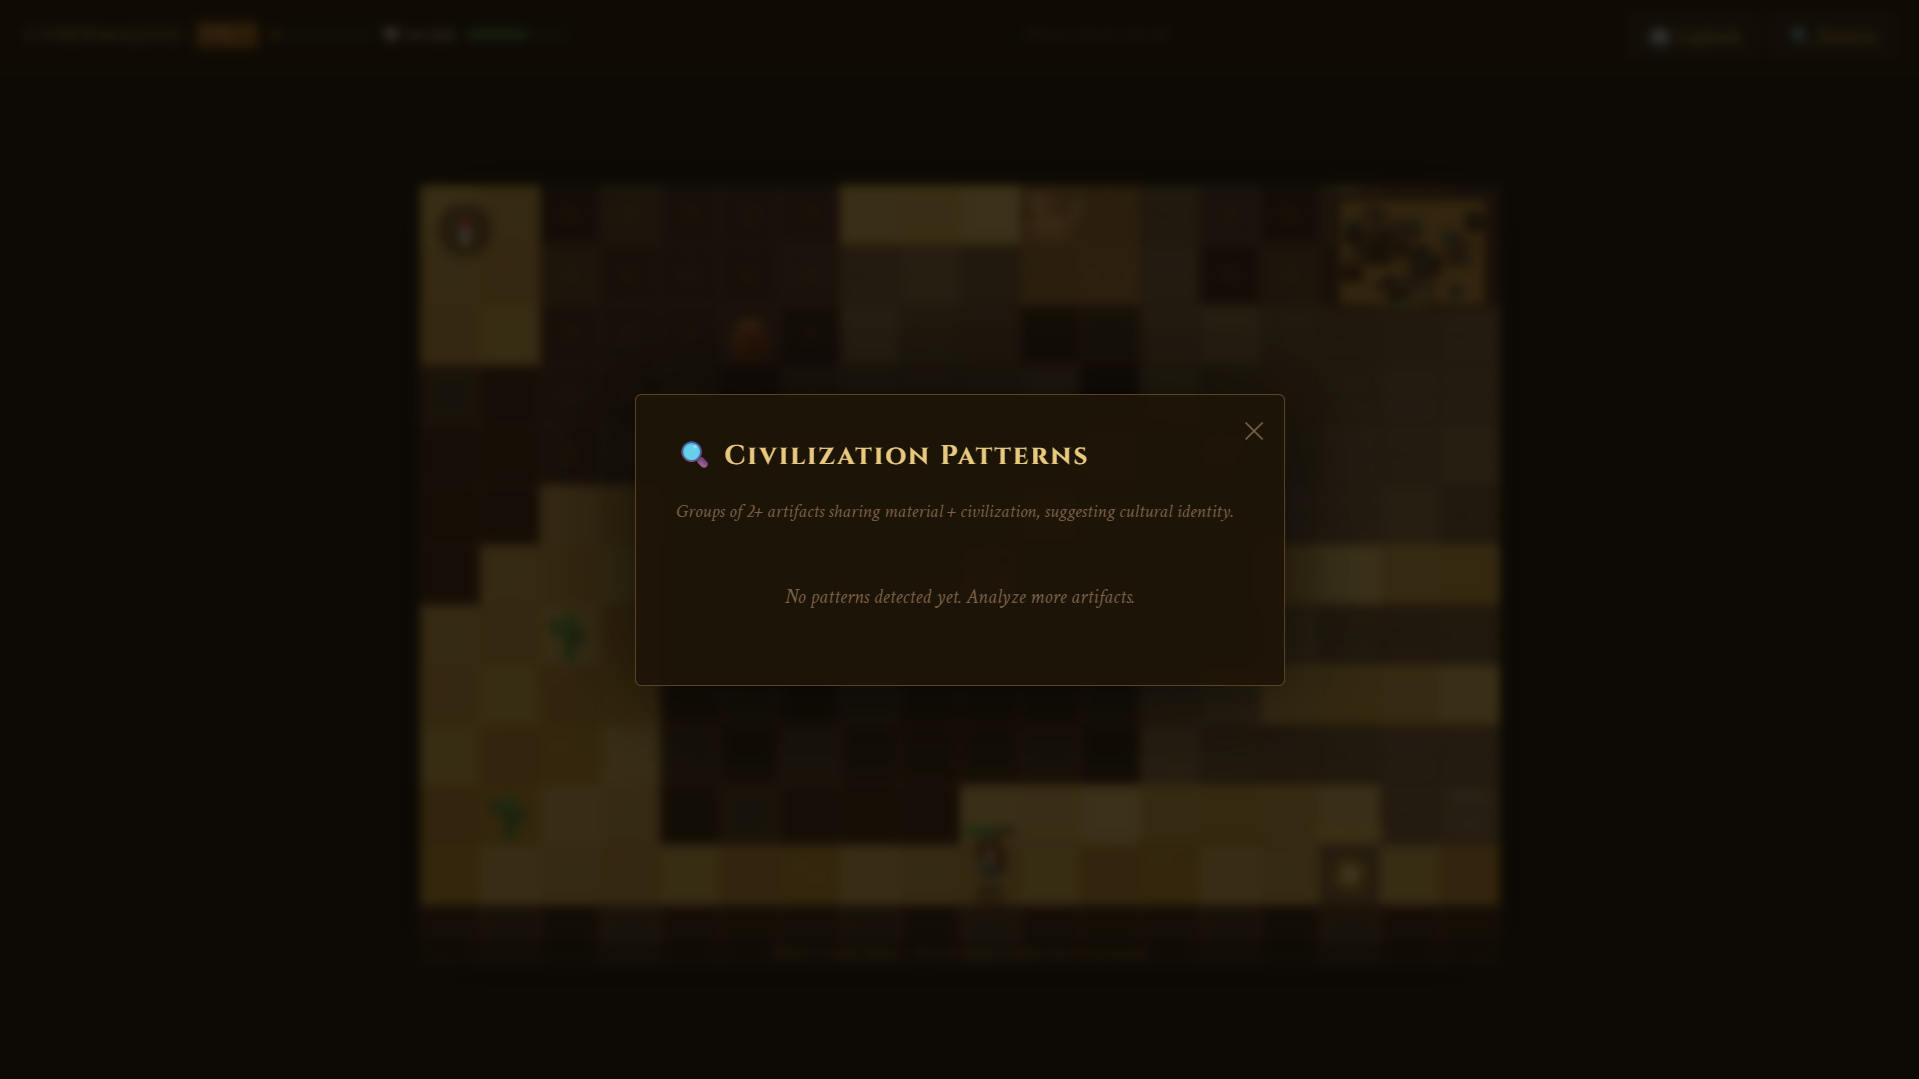
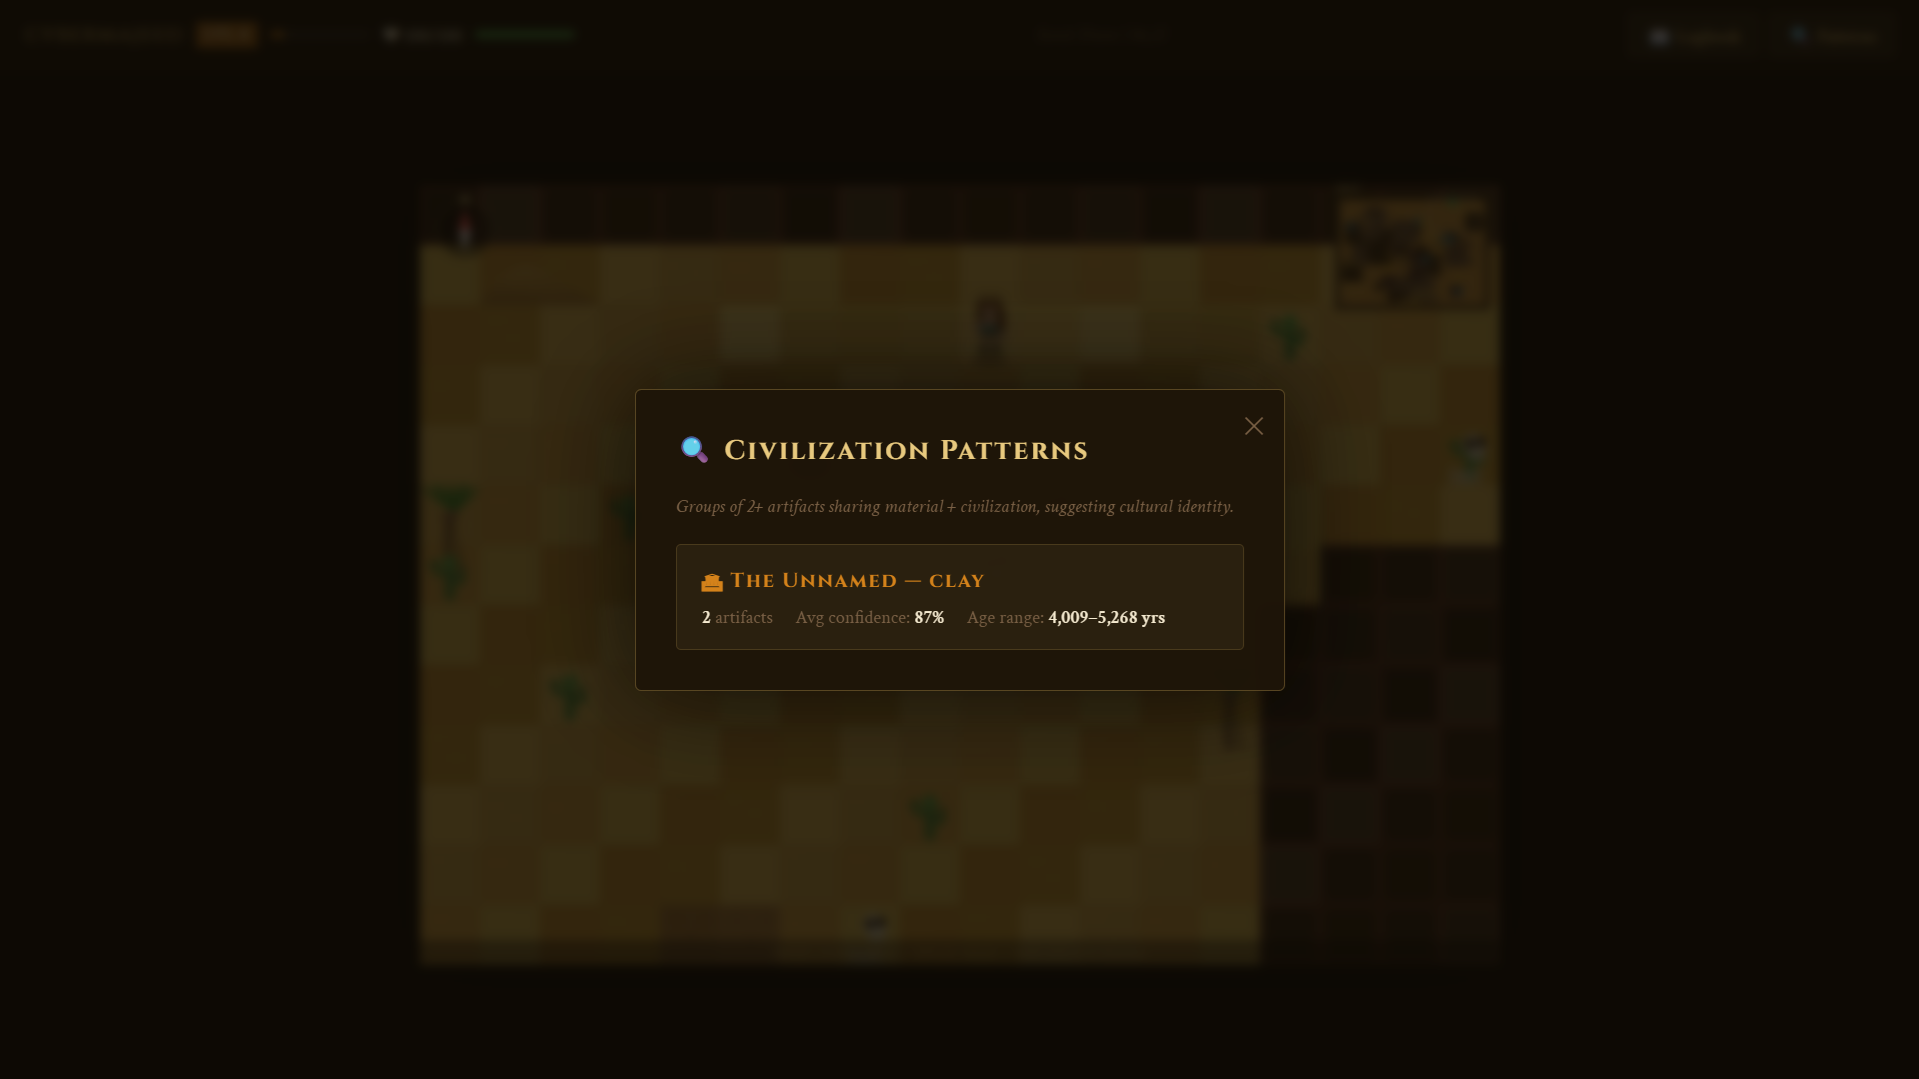
final final final v3

diff --git a/public/js/sprites.js b/public/js/sprites.js
@@ -18,7 +18,7 @@ const Sprites = (() => {
   }
 
   // ─────────────────────────────────────────────
-  // PLAYER — Girl archaeologist, 4-direction walk
+  // PLAYER — Archaeologist, 4-direction walk
   // Each frame: 48x48, 4 frames per direction
   // Directions: down(0), left(1), right(2), up(3)
   // ─────────────────────────────────────────────

diff --git a/README.md b/README.md
@@ -18,7 +18,7 @@
 
 ---
 
-##  File Structure
+## File Structure
 
 ```
 lost-in-dunes/
@@ -171,7 +171,7 @@ The map is **60 × 44 tiles** (2,640 tiles total), generated deterministically w
 
 ---
 
-##  Sprites
+## Sprites
 
 All sprites are generated at startup by `sprites.js` using the Canvas 2D API. No external image files are required.
 
@@ -201,7 +201,7 @@ All sprites are generated at startup by `sprites.js` using the Canvas 2D API. No
 
 ---
 
-##  Combat & Health
+## Combat & Health
 
 | Mechanic              | Detail                                                                          |
 | --------------------- | ------------------------------------------------------------------------------- |
@@ -219,7 +219,7 @@ All sprites are generated at startup by `sprites.js` using the Canvas 2D API. No
 
 ---
 
-##  Sound System
+## Sound System
 
 The `Sound` object is defined at the top of `game.js` and is globally available. `main.js` also calls it directly via `Sound.play("discover")`.
 
@@ -330,7 +330,7 @@ Level formula: `floor(experience / 500) + 1`
 
 ---
 
-##  API Reference
+## API Reference
 
 ### Players
 
@@ -357,7 +357,7 @@ Level formula: `floor(experience / 500) + 1`
 
 ---
 
-##  Simulation Logic
+## Simulation Logic
 
 ### Artifact Generation (`artifactGenerator.js`)
 
@@ -385,7 +385,7 @@ Level formula: `floor(experience / 500) + 1`
 
 ---
 
-##  UI Panels
+## UI Panels
 
 ### Logbook ()
 
@@ -408,7 +408,7 @@ Level formula: `floor(experience / 500) + 1`
 
 ---
 
-##  XP & Levelling
+## XP & Levelling
 
 | Action                  | XP                                 |
 | ----------------------- | ---------------------------------- |
@@ -422,7 +422,7 @@ Level formula: `floor(experience / 500) + 1`
 
 ---
 
-##  Behaviour Notes
+## Behaviour Notes
 
 - **Moving into a monster tile** does not attack — press SPACE while facing and adjacent to the monster instead
 - **Sound files are optional** — errors are caught silently; provide your own `.mp3` files in `public/sounds/`